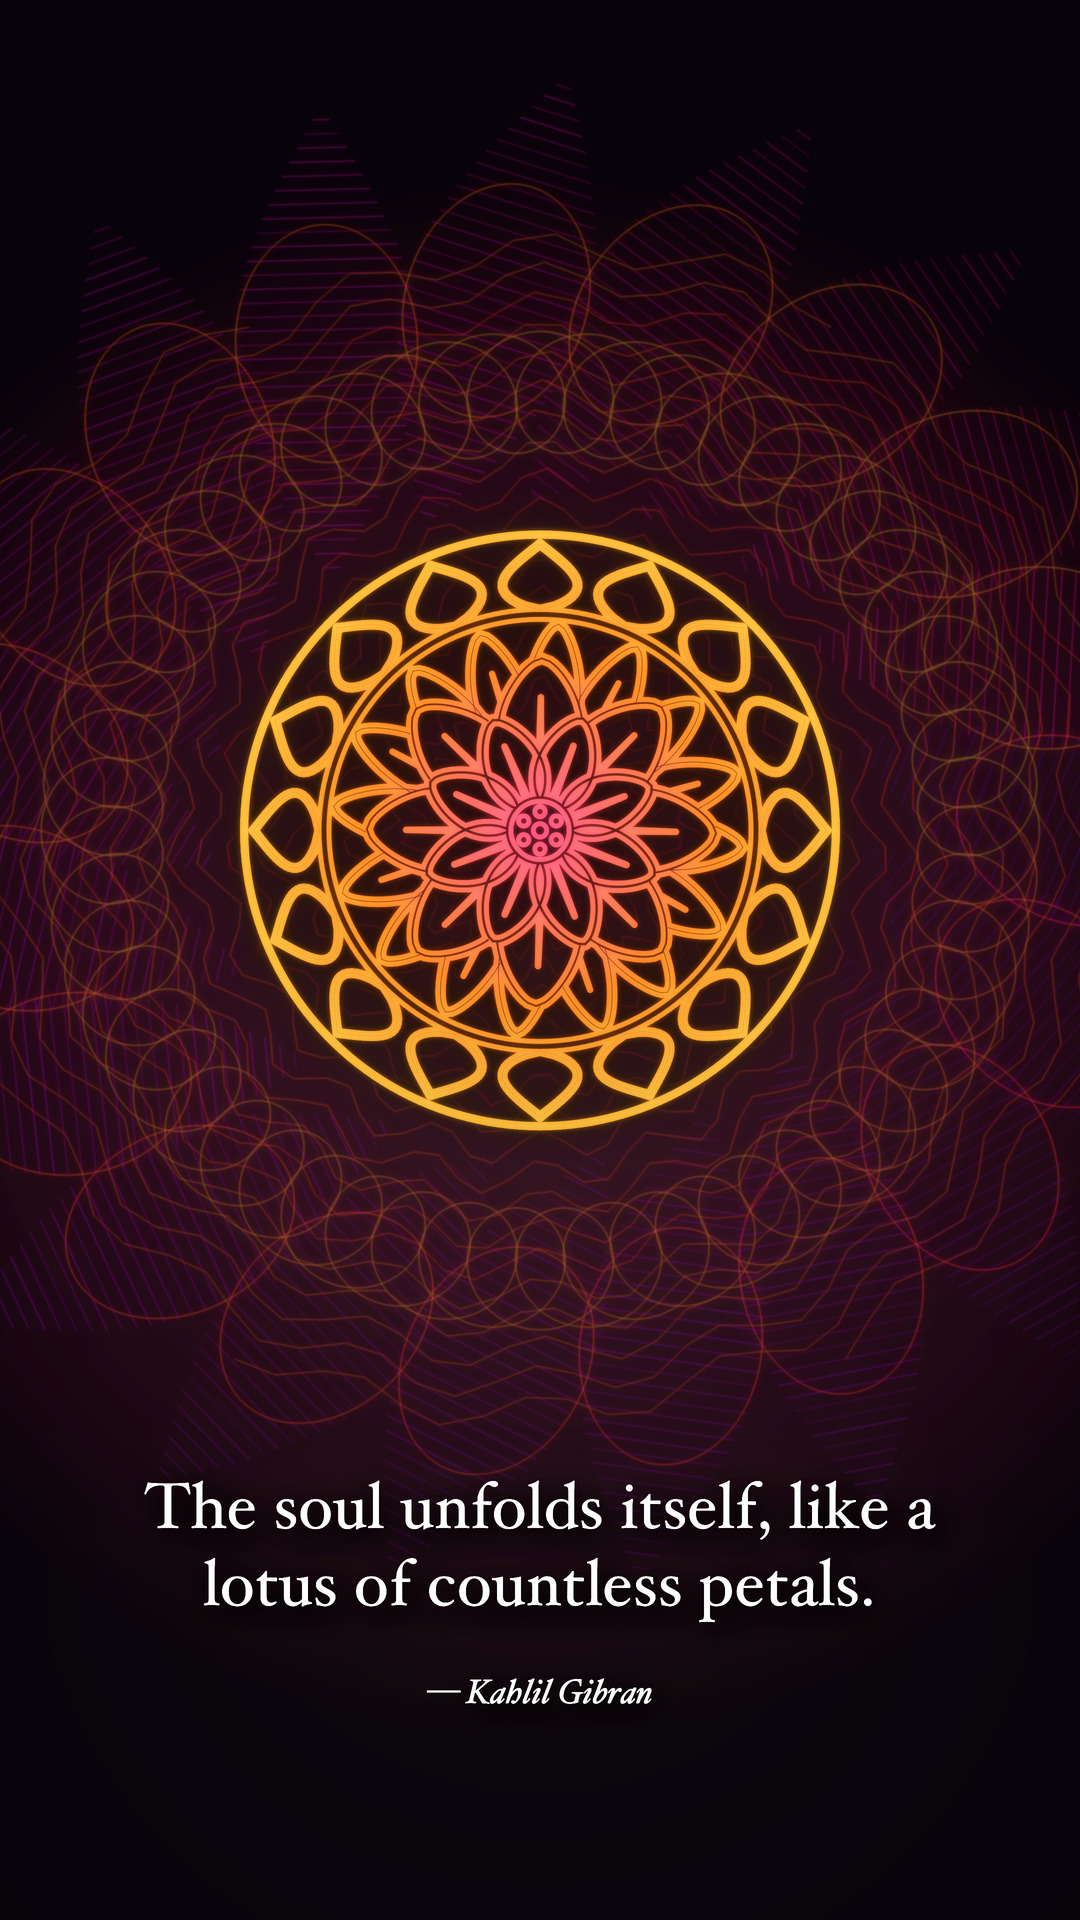
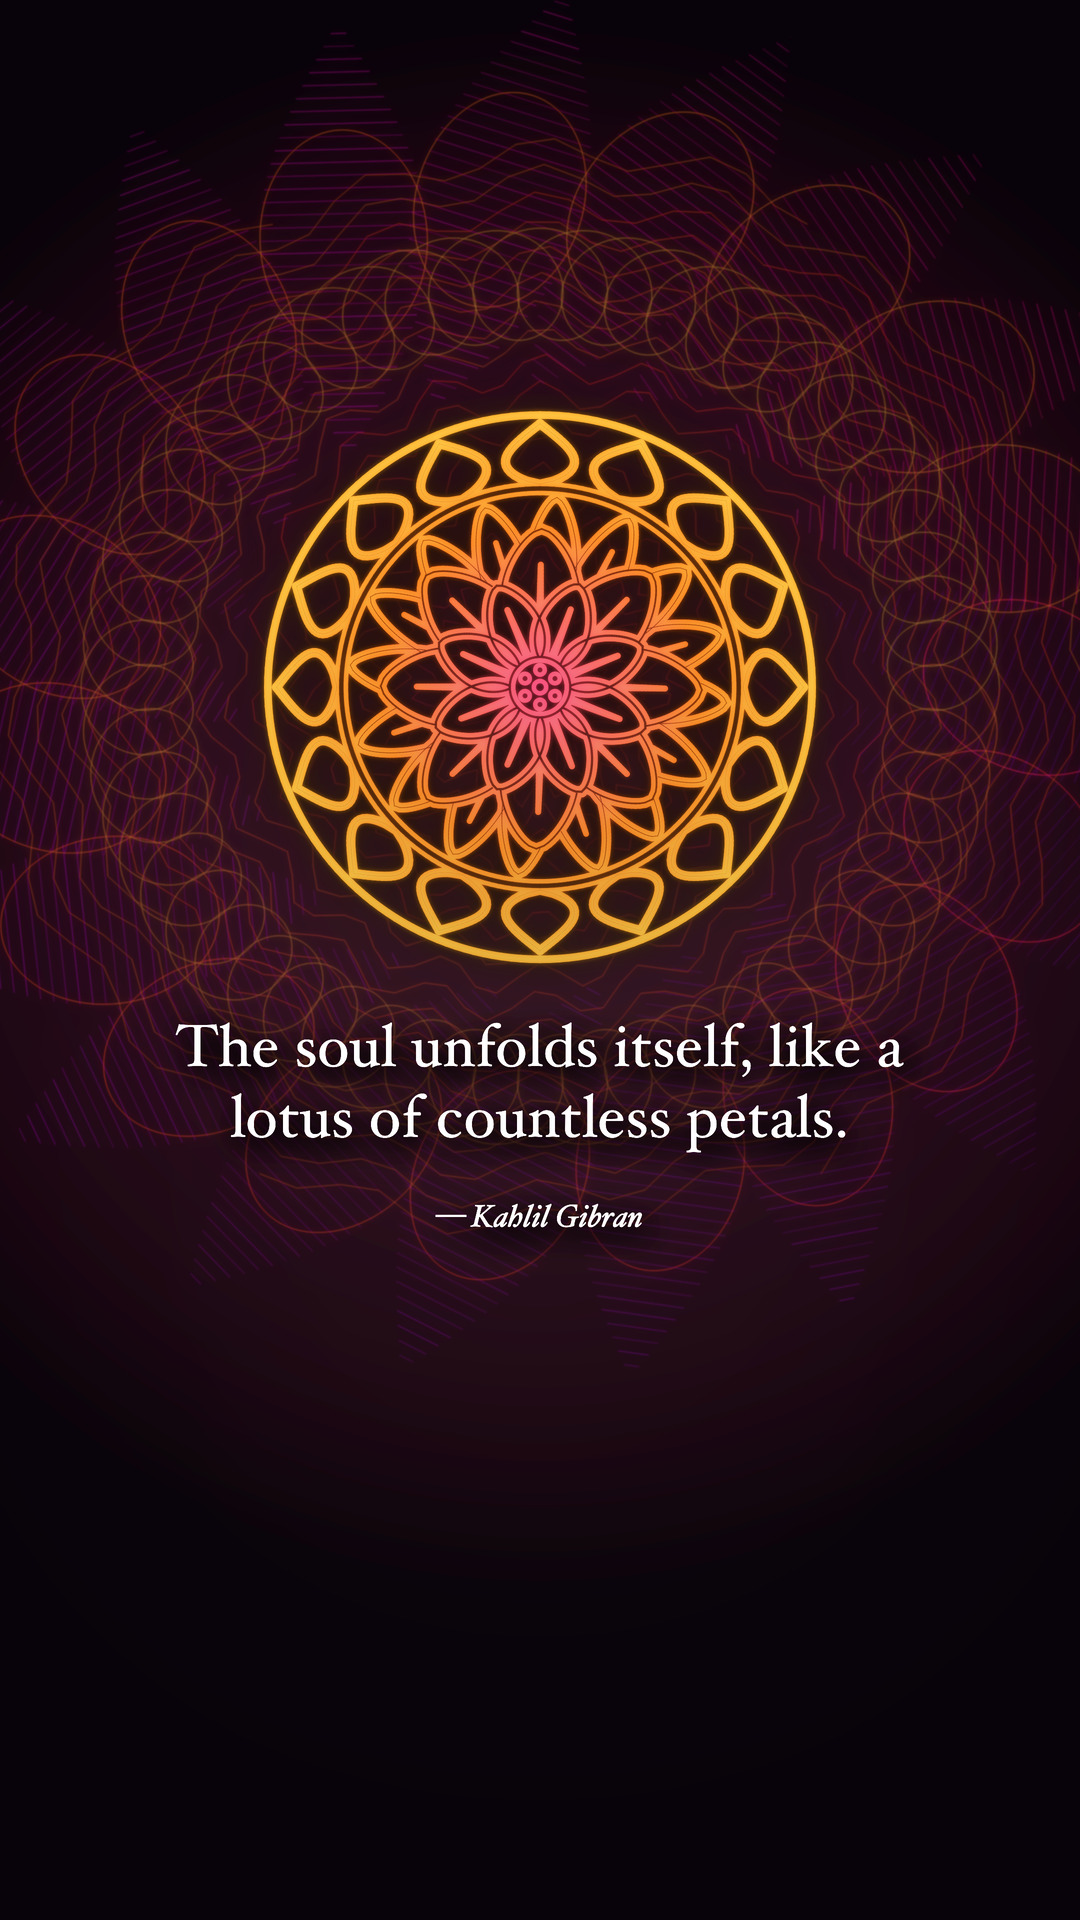
MKT-2: story-format cards keep text inside the Instagram and WhatsApp safe zones

Changed region(s): [[0.0, 0.0, 1.0, 0.8438], [0.4278, 0.875, 0.6111, 0.9062]]

diff --git a/docs/marketing/MKT-2-share-images.html b/docs/marketing/MKT-2-share-images.html
@@ -17,6 +17,10 @@
   --font: "Inter", "Inter Variable", system-ui, sans-serif;
   --radius-phone: 48px;
   --gutter: 72px;
+  /* Story format (1080×1920): Instagram and WhatsApp draw the name and progress bar over the top ~250 px and
+     the reply field, or a caption plus the reply field, over the bottom ~400 px. Text stays inside these. */
+  --safe-top: 270px;
+  --safe-bottom: 420px;
 }
 * { box-sizing: border-box; }
 html, body { margin: 0; background: var(--bg); color: var(--fg); font-family: var(--font); }
@@ -58,13 +62,13 @@ html, body { margin: 0; background: var(--bg); color: var(--fg); font-family: va
 .v-portrait .phone { position: absolute; left: 50%; transform: translateX(-50%); top: 690px; width: 470px; }
 
 /* ---------- B · story 1080×1920 ---------- */
-.v-story .text { position: relative; padding: 120px var(--gutter) 0; }
-.v-story .title { font-size: 144px; }
-.v-story .message { font-size: 58px; margin-top: 44px; }
-.v-story .phone { position: relative; margin: 56px auto 0; width: 500px; }
-.v-story .foot { position: absolute; left: var(--gutter); right: var(--gutter); bottom: 100px; text-align: center; }
-.v-story .facts { font-size: 34px; white-space: nowrap; }
-.v-story .link { font-size: 54px; margin-top: 16px; }
+.v-story .text { position: relative; padding: var(--safe-top) var(--gutter) 0; }
+.v-story .title { font-size: 132px; }
+.v-story .message { font-size: 56px; margin-top: 40px; }
+.v-story .phone { position: relative; margin: 56px auto 0; width: 520px; }
+.v-story .foot { margin-top: 28px; }
+.v-story .facts { font-size: 34px; white-space: nowrap; margin-top: 10px; }
+.v-story .link { font-size: 54px; }
 
 /* ---------- C · landscape 1920×1080 ---------- */
 .v-landscape .text { position: absolute; left: var(--gutter); top: 120px; width: 640px; }
@@ -106,12 +110,12 @@ html, body { margin: 0; background: var(--bg); color: var(--fg); font-family: va
 .v-wide .phone { width: 480px; }
 .v-wide .phones.two .phone { width: 420px; }
 /* ---------- G · teaser story 1080×1920: the mandala alone, one quiet line ---------- */
-.v-teaser .fade { position: absolute; left: 0; right: 0; bottom: 0; height: 34%; background: linear-gradient(to bottom, rgba(10,9,8,0), rgba(10,9,8,.9)); }
-.v-teaser .text { position: absolute; left: var(--gutter); right: var(--gutter); bottom: 100px; text-align: center; }
+.v-teaser .fade { position: absolute; left: 0; right: 0; bottom: 0; height: 44%; background: linear-gradient(to bottom, rgba(10,9,8,0), rgba(10,9,8,.85) 60%); }
+.v-teaser .text { position: absolute; left: var(--gutter); right: var(--gutter); bottom: var(--safe-bottom); text-align: center; }
 .v-teaser .message { font-size: 48px; max-width: none; text-wrap: balance; }
 /* ---------- H · wallpaper story 1080×1920: the lock screen on the phone, one quiet line ---------- */
-.v-wallpaper .phone { position: absolute; left: 50%; transform: translateX(-50%); top: 180px; width: 700px; }
-.v-wallpaper .text { position: absolute; left: var(--gutter); right: var(--gutter); bottom: 100px; text-align: center; }
+.v-wallpaper .phone { position: absolute; left: 50%; transform: translateX(-50%); top: var(--safe-top); width: 540px; }
+.v-wallpaper .text { position: absolute; left: var(--gutter); right: var(--gutter); bottom: var(--safe-bottom); text-align: center; }
 .v-wallpaper .message { font-size: 48px; max-width: none; text-wrap: balance; }
 </style>
 </head>
@@ -195,9 +199,8 @@ function card(v, t, set) {
     case "story": return `
       <div class="card v-story">
         <div class="art" style="background-image:url(${art})"></div><div class="scrim"></div>
-        <div class="text">${title()}<p class="message">${t.message}</p></div>
+        <div class="text">${title()}<p class="message">${t.message}</p><div class="foot"><p class="link">${t.link}</p><p class="facts">${t.facts}</p></div></div>
         ${phone(sh[0])}
-        <div class="foot"><p class="facts">${t.facts}</p><p class="link">${t.link}</p></div>
       </div>`;
     case "landscape": return `
       <div class="card v-landscape">

diff --git a/docs/marketing/README.md b/docs/marketing/README.md
@@ -23,6 +23,10 @@ Images to share with friends, on WhatsApp and elsewhere (MKT-1 names this folder
 
 New screenshots or backgrounds: change `SETS` in the HTML, new screenshots go to `../store/screenshots/`. English copy: no comma splices (two main clauses need a full stop).
 
+## Safe zones in the story format
+
+Instagram Stories and WhatsApp Status draw their own interface over a 1080 × 1920 image: the name and progress bar over the top (about 250 px), the reply field over the bottom (Instagram about 250 to 340 px) and, on WhatsApp, the caption you type (the clickable link goes there) above the reply field, together about 400 px. The figures are community measurements, not published by Meta, and vary a little by device. The story-format cards (B, G, H) therefore keep all text between `--safe-top` (270 px) and `--safe-bottom` (420 px), set in the HTML: the teaser and wallpaper lines sit just above the bottom band, the app card has its title below the top band and the link above the phone, and the phone may run off the bottom. The quote mandalas are rendered with the quote above the bottom band (`--centre-y 0.42 --text follows`). Check once on a real phone with a caption; if WhatsApp covers more, raise `--safe-bottom`.
+
 | Variant | Size | For |
 |---|---|---|
 | A portrait | 1080 × 1350 | WhatsApp chats, Instagram feed |
